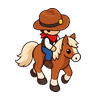
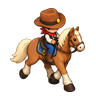
Add volumetric head-lowering bull animation and renew cowboy down-diagonal gait

diff --git a/REVIEW.md b/REVIEW.md
@@ -136,3 +136,11 @@ La documentación original describía 184 tests y ausencia de arte: al comprobar
 - Nuevas comprobaciones físicas: timer de distracción congelado en pausa/fin, reanuda al continuar; captura cancela guía de salida; espera escalonada de salida congelada en pausa.
 -240tests/3881aserciones. Sin arte nuevo; continúa revisión visual solicitada como bloque separado.
 - MismoID/firmaPrueba, code220.
+
+## Decimotercer incremento (0.21.11)
+
+- Arte nuevo real: seis poses del toro bajando cabeza con volumen pintado, secuencia de10frames ping-pong a5fps para beber/comer. Conserva identidad toro oscuro/manta roja/dorada; no modelo3D. Mira horizontalmente hacia objeto.
+- Diagonal abajo caballo/vaquero rehecha con seis poses de marcha y sombras de forma, conservando personaje. Seis frames sustituyen seis existentes, no se multiplican por cambiarfps.
+- Total78dibujos únicos (72previos+6cabeza),82frames runtime por ping-pong. Otras direcciones conservan arte previo, por tanto no declarar todo el elenco renovado.
+- Motor real capturado en vídeo y sprite registrado96px, clipping cuernos detectado/corregido al normalizar con altura máxima para cabeza baja. Contacto exacto hocico/objeto aún aproximado, no simulación bebida3D.
+-241tests/3894aserciones pasan. Misma identidad/firmaPrueba,code221. Sin test de teléfono de nueva versión.

diff --git a/CHANGELOG.md b/CHANGELOG.md
@@ -161,3 +161,8 @@ R para liberar en teclado, ayuda contextual por estado, controles de juego ocult
 - Toro distraído no agita al capturado cercano; recupera efecto al terminar.
 - Regresiones de pausa/fin/distracción y captura/espera de salida.
 - versionCode220, misma identidad/firma.
+
+## 0.21.11
+-6poses nuevas cabeza toro para beber/comer,10framesping-pong, volumen pintado.
+-6poses renovadas diagonalabajo caballo/vaquero, misma identidad.
+- Otrosángulosno renovados, sinmodelos3D;code221.
